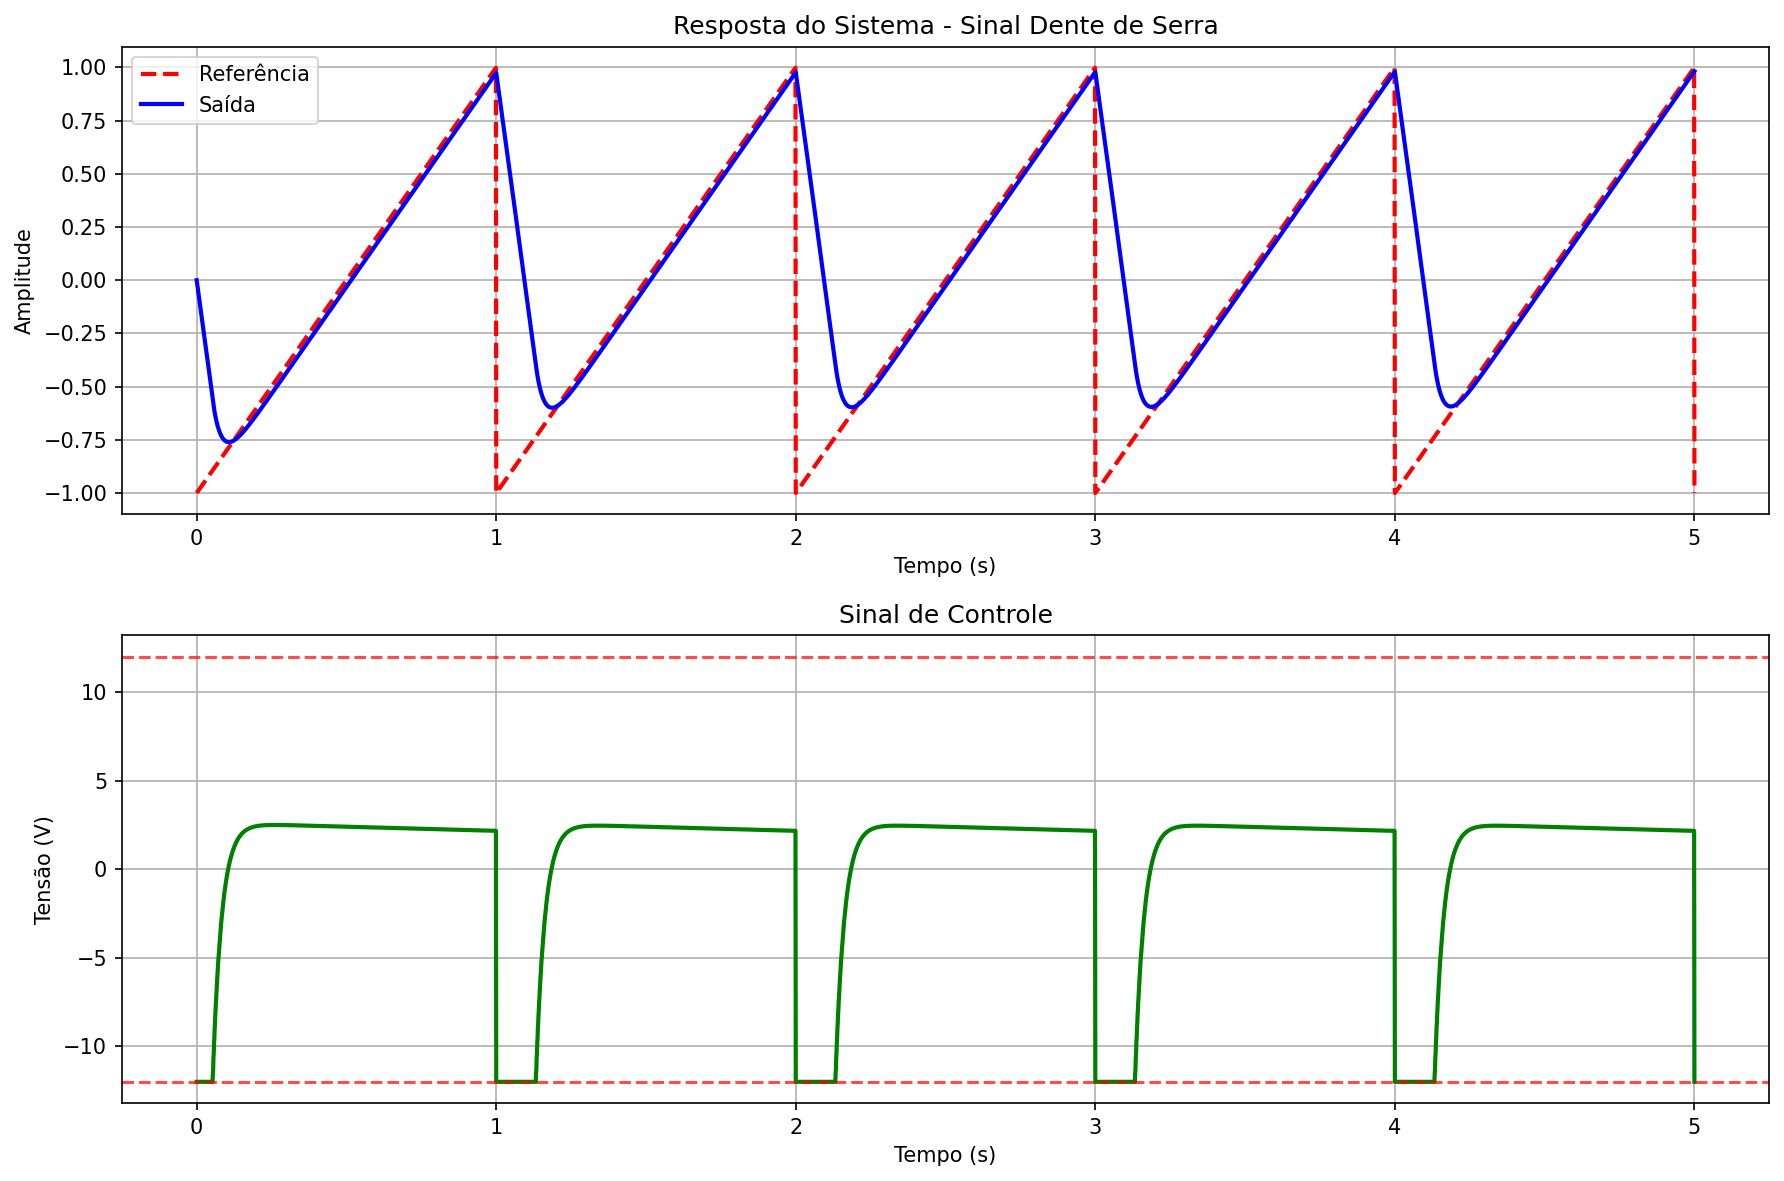
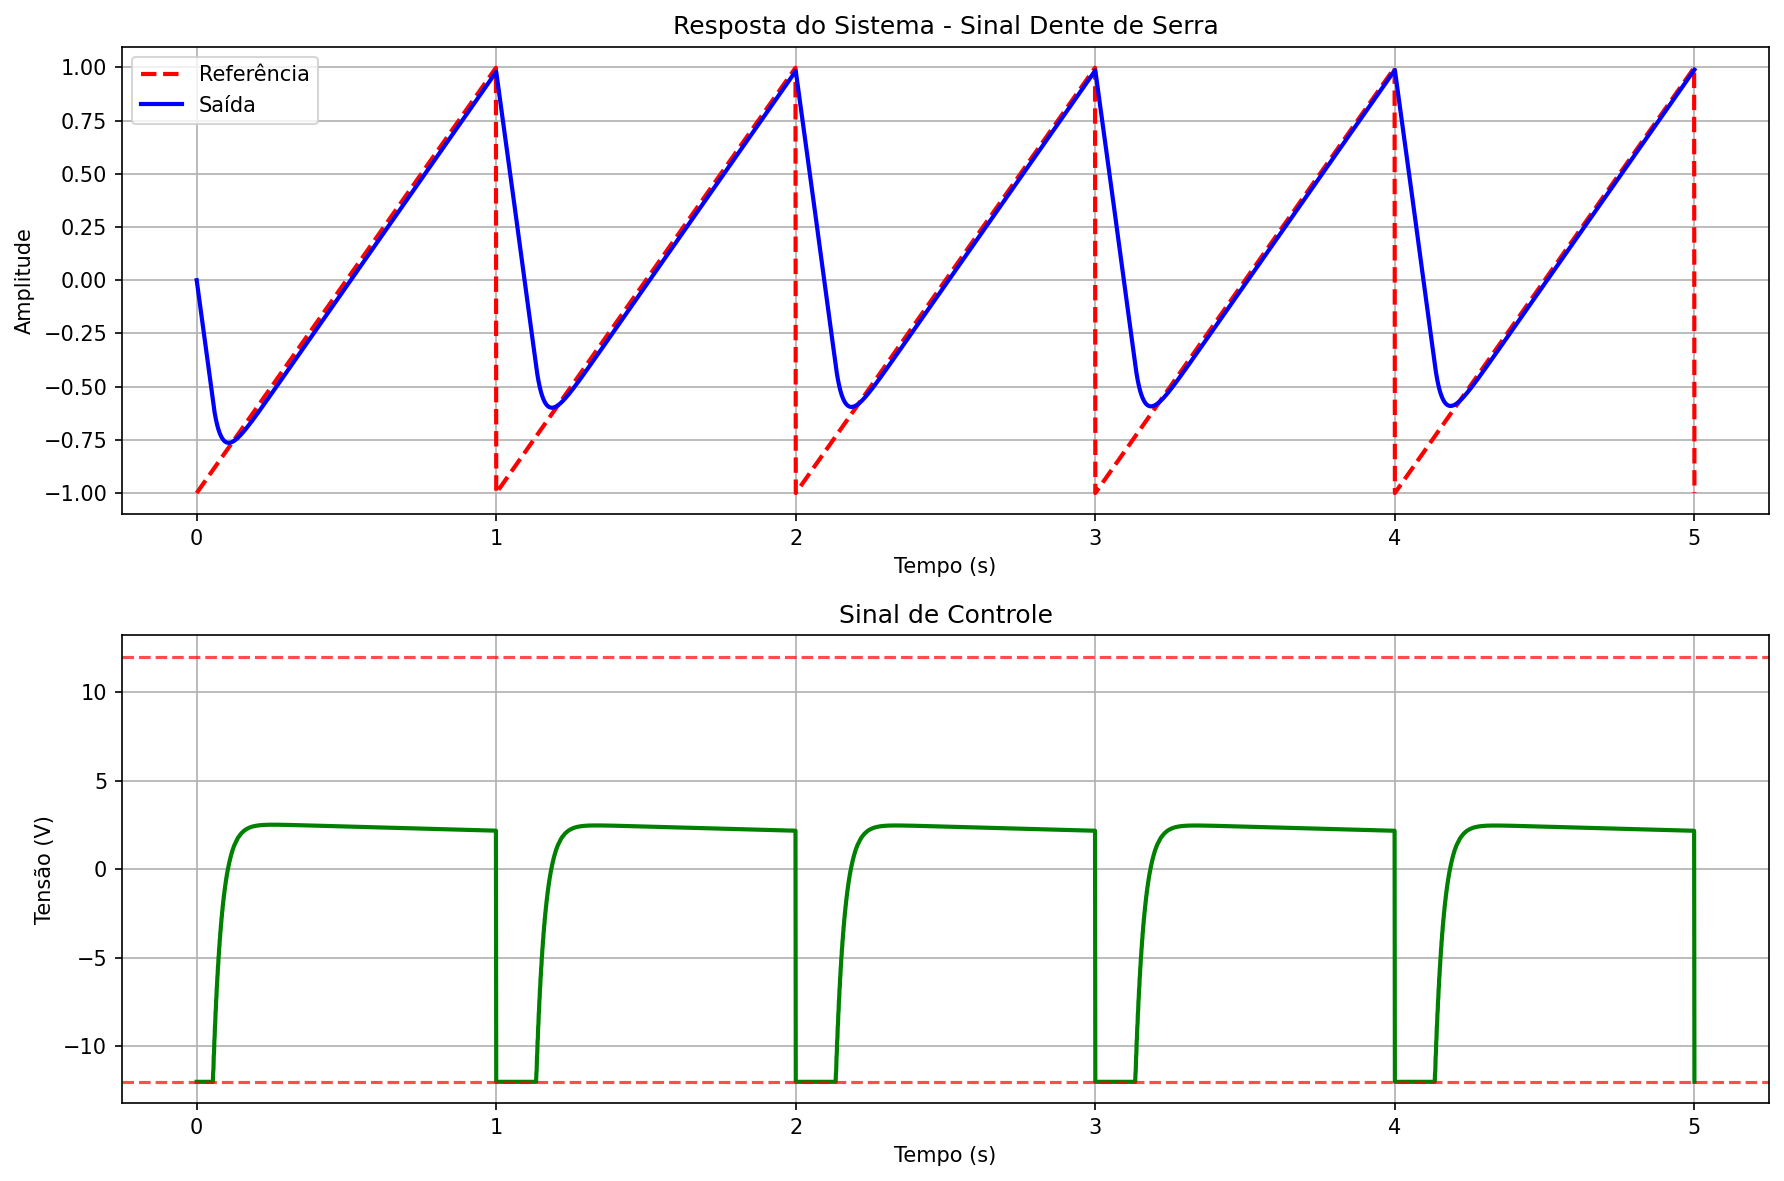
[MOD]30iter

diff --git a/codes/otimizacao/pid_v3_PSO.py b/codes/otimizacao/pid_v3_PSO.py
@@ -26,7 +26,7 @@ ts_ms = 1
 dt = ts_ms/1000.0
 
 n_part = 30
-max_iter = 15
+max_iter = 30
 lim = [(0.01, 100.0),    # kp: ganho proporcional
        (0.0, 50.0),      # ki: ganho integral  
        (0.0, 10.0)]      # kd: ganho derivativo
